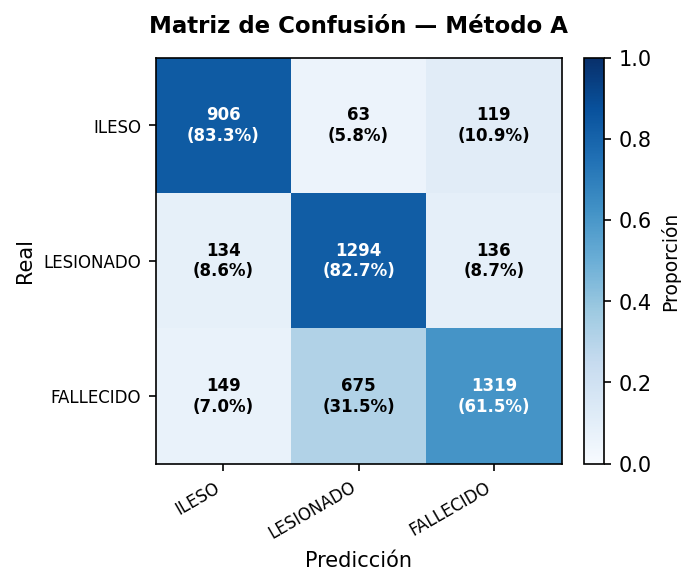
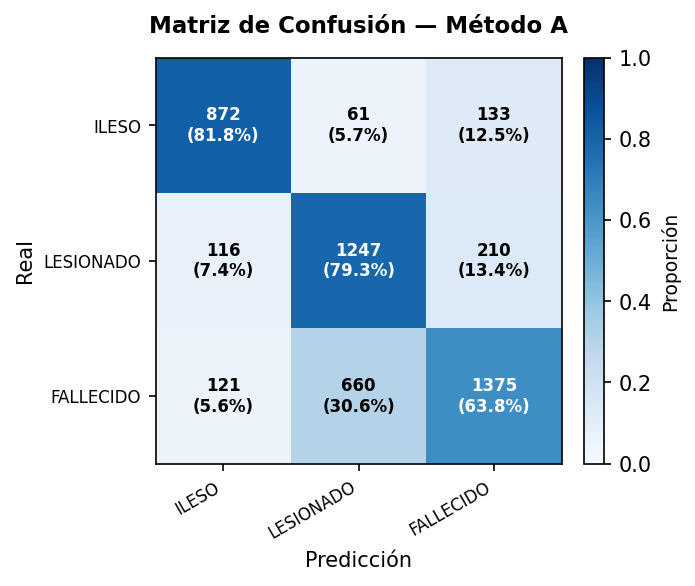
ya que

diff --git a/prueba_entrenamiento.py b/prueba_entrenamiento.py
@@ -50,7 +50,7 @@ PNG_RED = f"{CARPETA_SALIDA}/arquitectura_red.png"
 # a las clases que confunde entre sí (LESIONADO <-> FALLECIDO).
 # Ajusta estos 3 números y vuelve a correr para ver el efecto.
 # CLASS_WEIGHTS = None  # ej.: [1.0, 1.4, 1.4]  (orden: ILESO, LESIONADO, FALLECIDO)
-CLASS_WEIGHTS = [1.0, 1.0, 2]
+CLASS_WEIGHTS = [1.0, 1.1, 2]
 
 
 # ─────────────────────────────────────────────────────────────────────────────
@@ -299,42 +299,80 @@ def main():
     model.summary()
 
     # ── Hiperparámetros (los que la librería soporta de tu tabla) ─────────
-    model.train(
+    print("\n[ENTRENAMIENTO] Iniciando entrenamiento con optimizador ADAM...")
+    historial_costo = model.train(
         X_train, y_train,
         epochs=200,
-        alpha=0.01,
-        batch_size=32,
-        momentum=0.80,
-        weight_decay=1e-4,   # NOTA: usamos 1e-4, no 0.9 (ver advertencia arriba)
+        alpha=0.001,
+        batch_size=64,
+        momentum=0.80,  # Ignorado por Adam
+        weight_decay=1e-4,
         clip_norm=2.0,
         seed=SEMILLA,
+        optimizer='adam',
         verbose=10,
     )
 
-    model.plot_cost(title="Costo — Método A (undersampling)", savepath=PNG_COSTO)
+    model.plot_cost(title="Costo — Método A (Focal Loss)", savepath=PNG_COSTO)
 
-    # ── Diagnóstico: train vs test ────────────────────────────────────────
-    # Si train también está bajo -> underfitting (falta capacidad/features).
-    # Si train >> test -> overfitting (falta regularización/datos).
-    res_train = model.evaluate(X_train, y_train)
-    res_test = model.evaluate(X_test, y_test)
-    print(f"\nAccuracy train: {res_train['accuracy']:.4f}  "
-          f"(costo: {res_train['cost']:.4f})")
-    print(f"Accuracy test:  {res_test['accuracy']:.4f}  "
-          f"(costo: {res_test['cost']:.4f})")
-    brecha = res_train['accuracy'] - res_test['accuracy']
-    if brecha > 0.10:
-        print(f"-> Brecha de {brecha:.1%}: pinta a OVERFITTING "
-              f"(sube weight_decay o baja capacidad de la red).")
-    elif res_train['accuracy'] < 0.80:
-        print(f"-> Train también bajo: pinta a UNDERFITTING "
-              f"(falta capacidad, features, o el límite lo pone la calidad del dato).")
+    # ── Diagnóstico y Captura de Logs ──────────────────────────────────────
+    import io
+    import datetime
+    from contextlib import redirect_stdout
 
-    # ── Evaluación ──────────────────────────────────────────────────────────
-    y_pred_cls = model.predict_classes(X_test)
-    y_true_cls = np.argmax(y_test, axis=1)
+    f = io.StringIO()
+    with redirect_stdout(f):
+        print("=" * 70)
+        print("REGISTRO DE ENTRENAMIENTO - PREDICTOR DE SINIESTROS VIALES")
+        print(f"Fecha de Ejecución: {datetime.datetime.now().strftime('%Y-%m-%d %H:%M:%S')}")
+        print("=" * 70)
+        print(f"Dataset de Entrada: {df.shape[0]} registros totales")
+        print(f"Clase de Costo Utilizada: {model.cost_name}")
+        print(f"Parámetros de Entrenamiento:")
+        print(f"  - Optimizador: ADAM")
+        print(f"  - Épocas: 200")
+        print(f"  - Tasa de Aprendizaje (alpha): 0.01")
+        print(f"  - Tamaño de Batch (batch_size): 32")
+        print(f"  - Weight Decay (L2): 1e-4")
+        print(f"  - Clip Norm: 2.0")
+        print(f"  - Semilla de pesos: {SEMILLA}")
+        print("\nArquitectura de la Red Neuronal:")
+        model.summary()
+        
+        print("\nHistorial del Costo por Época:")
+        for idx, costo in enumerate(historial_costo):
+            if idx % 10 == 0 or idx == len(historial_costo) - 1:
+                print(f"  Época {idx:>3}: Costo = {costo:.6f}")
+                
+        print("\nEvaluación en Conjunto de Validación (20% Test):")
+        res_train = model.evaluate(X_train, y_train)
+        res_test = model.evaluate(X_test, y_test)
+        print(f"Accuracy train: {res_train['accuracy']:.4f}  (costo: {res_train['cost']:.4f})")
+        print(f"Accuracy test:  {res_test['accuracy']:.4f}  (costo: {res_test['cost']:.4f})")
+        brecha = res_train['accuracy'] - res_test['accuracy']
+        if brecha > 0.10:
+            print(f"-> Diagnóstico: Brecha de {brecha:.1%} indica OVERFITTING")
+        elif res_train['accuracy'] < 0.80:
+            print(f"-> Diagnóstico: Train bajo indica UNDERFITTING")
+        else:
+            print(f"-> Diagnóstico: Modelo estable y con buena generalización")
+            
+        print("\nReporte de Clasificación Final por Clase:")
+        y_pred_cls = model.predict_classes(X_test)
+        y_true_cls = np.argmax(y_test, axis=1)
+        classification_report(y_true_cls, y_pred_cls, class_names=CLASES)
+        print("=" * 70)
 
-    classification_report(y_true_cls, y_pred_cls, class_names=CLASES)
+    report_str = f.getvalue()
+    # Mostrar el reporte en la consola de ejecución normal
+    print(report_str)
+
+    # Guardar el registro de entrenamiento en outputs/log_entrenamiento.txt
+    path_log = os.path.join(CARPETA_SALIDA, "log_entrenamiento.txt")
+    with open(path_log, "w", encoding="utf-8") as f_log:
+        f_log.write(report_str)
+    print(f"\n[REGISTRO] Log del entrenamiento guardado en: {path_log}")
+
     plot_confusion_matrix(y_true_cls, y_pred_cls, class_names=CLASES,
                            title="Matriz de Confusión — Método A",
                            savepath=PNG_MATRIZ)

diff --git a/neurox/layers.py b/neurox/layers.py
@@ -75,36 +75,13 @@ class Dense:
     # ── Backward ─────────────────────────────────────────────────────────────
 
     def backward(self, grad_output: np.ndarray, alpha: float,
-                 momentum: float = 0.0, weight_decay: float = 0.0) -> np.ndarray:
+                 momentum: float = 0.0, weight_decay: float = 0.0,
+                 optimizer: str = 'sgd') -> np.ndarray:
         """
         Pasada hacia atrás: calcula gradientes, actualiza pesos y retorna
         el gradiente respecto a la entrada (para propagarlo a la capa anterior).
-
-        Parámetros
-        ----------
-        grad_output : np.ndarray, shape (m, n_neurons)
-            Gradiente que llega desde la capa siguiente (∂L/∂output).
-        alpha : float
-            Tasa de aprendizaje.
-        momentum : float
-            Coeficiente de momentum clásico (0 = SGD puro, sin momentum).
-            v = momentum * v - alpha * grad ; W += v
-        weight_decay : float
-            Coeficiente de regularización L2 (solo se aplica a W, no a b).
-            grad_W += weight_decay * W antes de la actualización.
-            OJO: valores típicos son 1e-4 a 1e-2. Un valor como 0.9
-            no es "weight decay" en el sentido usual (destruiría los pesos
-            en cada paso); si se necesita ese comportamiento hay que
-            pedirlo explícitamente.
-
-        Retorna
-        -------
-        np.ndarray, shape (m, n_inputs)
-            Gradiente respecto a la entrada de esta capa (∂L/∂X).
         """
         # Gradiente respecto a z (pre-activación)
-        # Excepción: softmax+CCE ya viene simplificado desde el costo,
-        # así que su fn_prime devuelve unos y no modifica grad_output.
         delta = grad_output * self.fn_prime(self._z)   # (m, n_neurons)
 
         # Gradientes de pesos y bias
@@ -115,12 +92,37 @@ class Dense:
         if weight_decay:
             grad_W = grad_W + weight_decay * self.W
 
-        # Gradiente hacia la capa anterior (se calcula ANTES de actualizar W,
-        # usando los pesos "viejos", como corresponde en backprop)
+        # Gradiente hacia la capa anterior (se calcula ANTES de actualizar W)
         grad_input = delta @ self.W.T                  # (m, n_inputs)
 
         # Actualización de pesos
-        if momentum:
+        if optimizer == 'adam':
+            # Inicializar acumuladores de Adam de forma perezosa
+            if not hasattr(self, '_mW'):
+                self._mW = np.zeros_like(self.W)
+                self._vW_adam = np.zeros_like(self.W)
+                self._mb = np.zeros_like(self.b)
+                self._vb_adam = np.zeros_like(self.b)
+                self._t = 0
+            
+            self._t += 1
+            beta1, beta2, eps = 0.9, 0.999, 1e-8
+            
+            # Adam para W
+            self._mW = beta1 * self._mW + (1 - beta1) * grad_W
+            self._vW_adam = beta2 * self._vW_adam + (1 - beta2) * (grad_W ** 2)
+            m_hat_W = self._mW / (1 - beta1 ** self._t)
+            v_hat_W = self._vW_adam / (1 - beta2 ** self._t)
+            self.W -= alpha * m_hat_W / (np.sqrt(v_hat_W) + eps)
+            
+            # Adam para b
+            self._mb = beta1 * self._mb + (1 - beta1) * grad_b
+            self._vb_adam = beta2 * self._vb_adam + (1 - beta2) * (grad_b ** 2)
+            m_hat_b = self._mb / (1 - beta1 ** self._t)
+            v_hat_b = self._vb_adam / (1 - beta2 ** self._t)
+            self.b -= alpha * m_hat_b / (np.sqrt(v_hat_b) + eps)
+            
+        elif momentum:
             self._vW = momentum * self._vW - alpha * grad_W
             self._vb = momentum * self._vb - alpha * grad_b
             self.W += self._vW

diff --git a/neurox/network.py b/neurox/network.py
@@ -113,13 +113,15 @@ class Network:
 
     def _backward(self, y_pred: np.ndarray, y_true: np.ndarray,
                   alpha: float, momentum: float = 0.0,
-                  weight_decay: float = 0.0, clip_norm: float = None) -> None:
+                  weight_decay: float = 0.0, clip_norm: float = None,
+                  optimizer: str = 'sgd') -> None:
         grad = self.cost_grad(y_pred, y_true)
         for layer in reversed(self.layers):
             if clip_norm is not None:
                 grad = self._clip_grad(grad, clip_norm)
             grad = layer.backward(grad, alpha, momentum=momentum,
-                                   weight_decay=weight_decay)
+                                   weight_decay=weight_decay,
+                                   optimizer=optimizer)
 
     @staticmethod
     def _clip_grad(grad: np.ndarray, max_norm: float) -> np.ndarray:
@@ -150,30 +152,10 @@ class Network:
               clip_norm: float = None,
               shuffle: bool = True,
               seed: int = None,
+              optimizer: str = 'sgd',
               verbose: int = 10) -> list:
         """
-        Entrena la red con gradient descent (full-batch o mini-batch/SGD).
-
-        Parámetros
-        ----------
-        X            : np.ndarray, shape (m, n_features)
-        y            : np.ndarray, shape (m,) o (m, n_clases)
-        epochs       : int   — número de épocas
-        alpha        : float — tasa de aprendizaje
-        batch_size   : int|None — tamaño de mini-batch. None = full-batch
-                       (todo el dataset en cada paso, comportamiento original).
-        momentum     : float — coeficiente de momentum clásico (0 = SGD puro)
-        weight_decay : float — coeficiente L2 (ver advertencia en Dense.backward
-                       sobre valores grandes como 0.9)
-        clip_norm    : float|None — umbral de gradient clipping (None = sin clip)
-        shuffle      : bool — baraja los datos en cada época (solo relevante
-                       si batch_size no es None)
-        seed         : int|None — semilla para el barajado
-        verbose      : int   — imprime el costo cada N épocas (0 = silencioso)
-
-        Retorna
-        -------
-        list — historial de costo por época (promedio ponderado si hay batches)
+        Entrena la red con gradient descent (full-batch o mini-batch/SGD/Adam).
         """
         self.history = []
         X, y = np.array(X), np.array(y)
@@ -205,7 +187,8 @@ class Network:
                 self._backward(y_pred, y_batch, alpha,
                                 momentum=momentum,
                                 weight_decay=weight_decay,
-                                clip_norm=clip_norm)
+                                clip_norm=clip_norm,
+                                optimizer=optimizer)
 
             epoch_loss = epoch_loss_sum / m
             self.history.append(epoch_loss)

diff --git a/app.py b/app.py
@@ -130,10 +130,11 @@ def cargar_modelo():
             epochs=200,
             alpha=0.01,
             batch_size=32,
-            momentum=0.80,
+            momentum=0.80, # Ignorado por Adam
             weight_decay=1e-4,
             clip_norm=2.0,
             seed=SEMILLA,
+            optimizer='adam',
             verbose=10,
         )
         